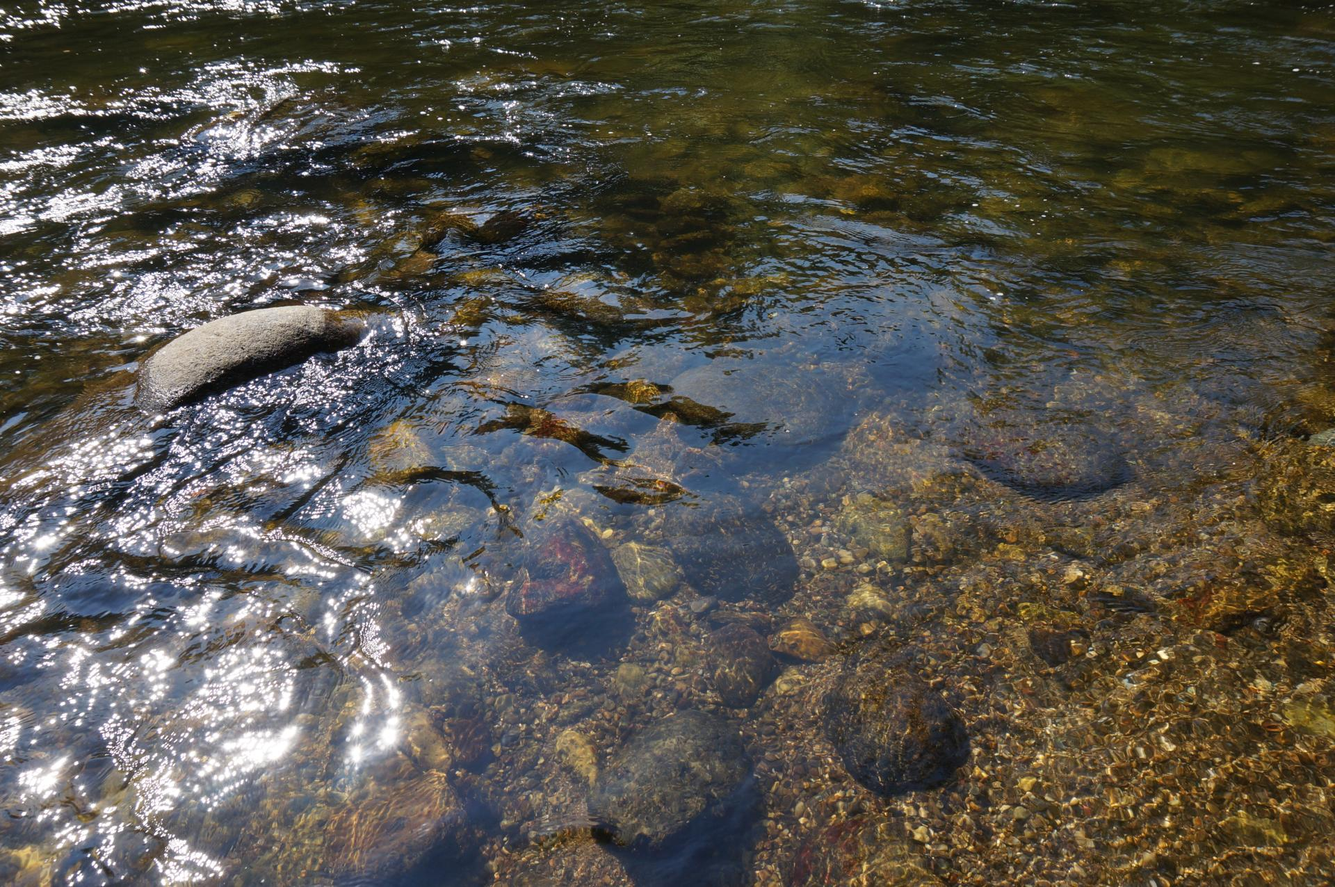
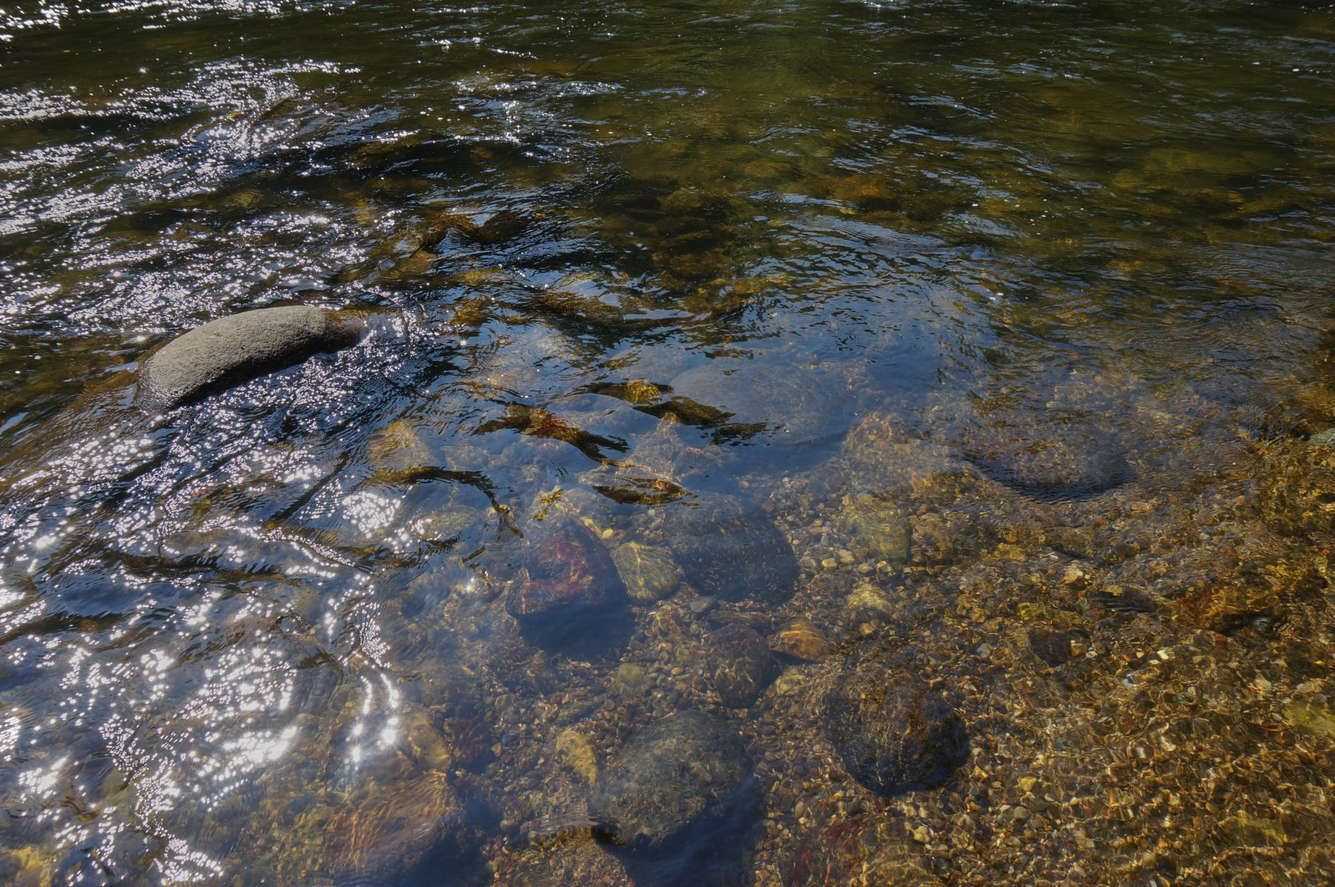
Design

diff --git a/index.html b/index.html
@@ -499,7 +499,7 @@
                             Dans les cours d’eau, le dénombrement des espèces identifiées permet de calculer différents indices de la qualité de l’eau : l’Indice Biologique Diatomées (IBD) et l’Indice de Polluo-sensibilité Spécifique (IPS). <br>
 
                         </p>
-                        <img src="assets/img/activities/Imag15.jpg" alt="" data-at2x="assets/img/activities/Imag15.jpg">
+                        <!-- <img src="assets/img/activities/Imag15.jpg" alt="" data-at2x="assets/img/activities/Imag15.jpg"> -->
                     </div>
                     <div class="col-sm-6 block-2-box block-2-left wow fadeInUp">
                         <h3>Les macro-invertébrés</h3>
@@ -538,7 +538,7 @@
                 <div class="row">
                     <div class="col-sm-12">
                         <div class="section-bottom-link wow fadeInUp">
-                            <a class="big-link-1 btn scroll-link" href="#contact">Contactez nous!</a>
+                            <a class="big-link-2 btn scroll-link" href="#contact">Contactez nous!</a>
                         </div>
                     </div>
                 </div>
